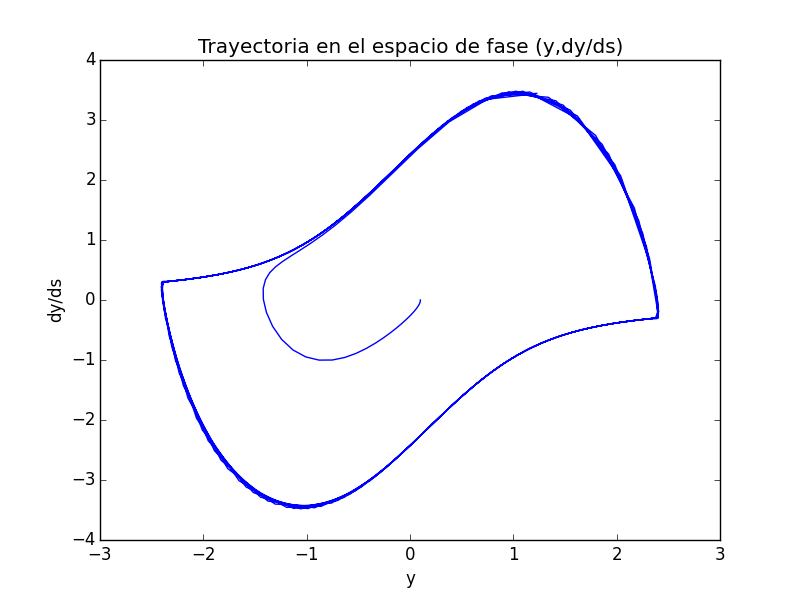
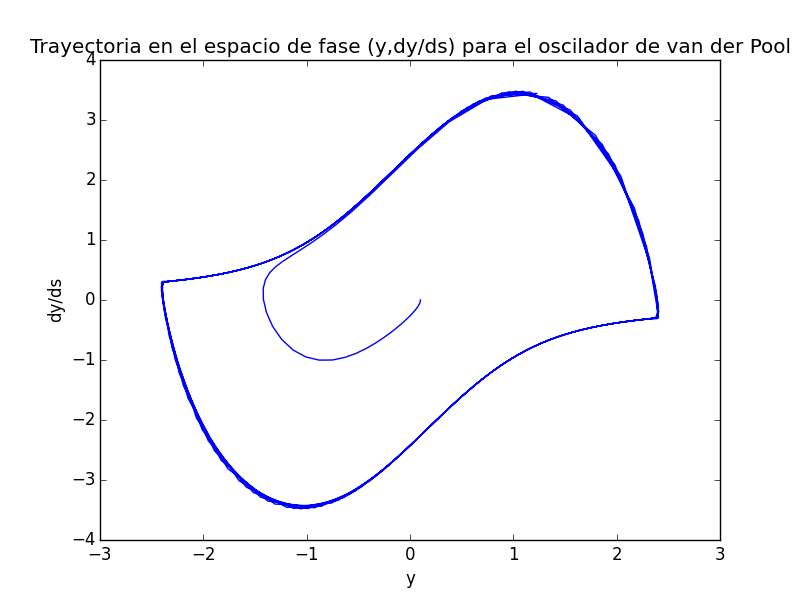
Tarea3: p1 y p2
se finaliza pregunta 2

Changed region(s): [[0.0312, 0.06, 1.0, 0.09]]

diff --git a/tarea3.py b/tarea3.py
@@ -5,6 +5,8 @@
 
 import numpy as np
 import matplotlib.pyplot as plt
+from scipy.integrate import ode
+from mpl_toolkits.mplot3d import Axes3D
 
 mu=1.657 #definimos el mu segun el rut
 
@@ -49,13 +51,57 @@ espacio=RK3(0,0.1,0,20*np.pi) #Damos valores a la funcion de condiciones inicial
 plt.plot(espacio[0],espacio[1]) #ploteamos trayectoria
 plt.xlabel('s')
 plt.ylabel('y')
-plt.title('Trayectoria y(s)')
+plt.title('Trayectoria y(s) para el oscilador de van der Pool')
 plt.savefig('trayectoria.png')
 #plt.show()
 plt.figure()
-plt.plot(espacio[1],espacio[2]) #ploteamos espacio de fase 
+plt.plot(espacio[1],espacio[2]) #ploteamos espacio de fase
 plt.xlabel('y')
 plt.ylabel('dy/ds')
-plt.title('Trayectoria en el espacio de fase (y,dy/ds)')
+plt.title('Trayectoria en el espacio de fase (y,dy/ds) para el oscilador de van der Pool')
 plt.savefig('espacio_fase.png')
+#plt.show()
+
+#Pregunta 2
+
+sigma=10.
+beta=8/3.
+rho=28.
+
+def sistema(t,w,sigma=sigma,beta=beta,rho=rho):
+    x, y, z =w
+    return [sigma*(y-x), x*(rho-z)-y, x*y-beta*z]
+
+t0=0
+x0=10.
+y0=20.
+z0=30.
+w0= x0, y0, z0
+tf=40
+
+r=ode(sistema)
+r.set_integrator('dopri5')
+r.set_initial_value(w0)
+
+t=np.linspace(t0,tf,5000)
+
+x=np.ones(len(t))
+y=np.ones(len(t))
+z=np.ones(len(t))
+
+for i in range(0,len(t)):
+    r.integrate(t[i])
+    x[i], y[i], z[i] = r.y
+
+fig=plt.figure()
+fig.clf()
+ax = fig.add_subplot(111, projection='3d')
+ax.set_aspect('equal')
+ax.plot(x, y, z)
+ax.set_xlabel('x(t)')
+ax.set_ylabel('y(t)')
+ax.set_zlabel('z(t)')
+plt.title('Atractor de Lorentz')
+plt.savefig('Atractor_lorentz.png')
+
 plt.show()
